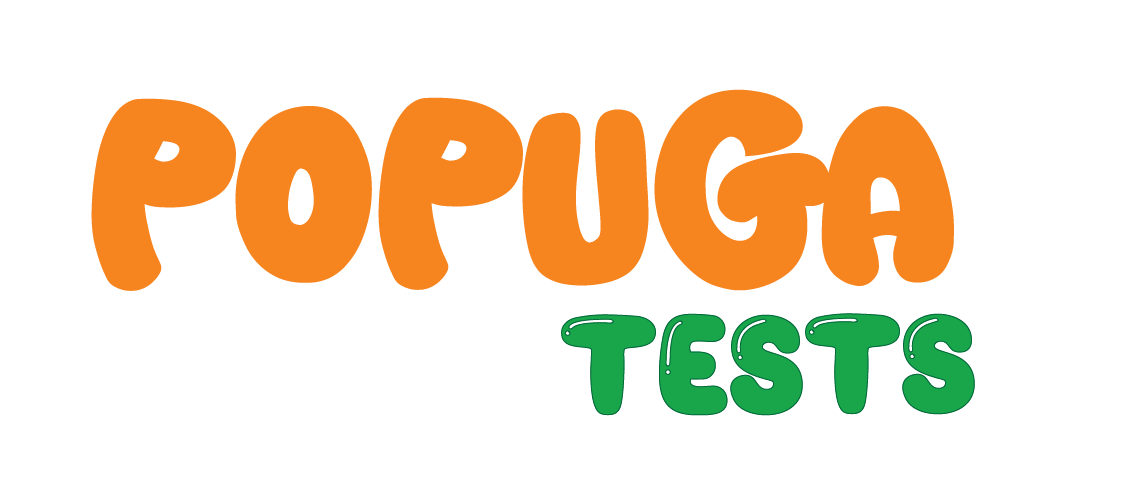
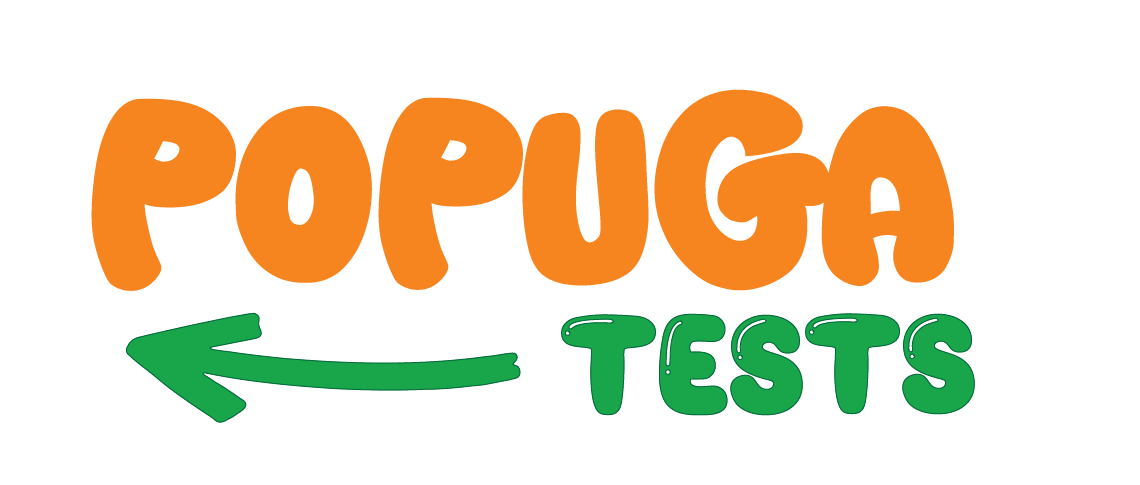
adds header images

Changed region(s): [[0.0921, 0.6495, 0.4605, 0.866]]

diff --git a/cards.html b/cards.html
@@ -8,8 +8,8 @@
 </head>
 <body>
   <div class="header-container">
-    <a href="cards.html">
-      <img src="img/header_synonyms.png" alt="Synonyms Logo" class="header-image" />
+    <a href="index.html">
+      <img src="img/header_cards.png" alt="Synonyms Logo" class="header-image" />
     </a>
     <div class="score-box">
       <div class="score-line">⭐ Score: <span id="currentScore">0/5</span></div>

diff --git a/cards.css b/cards.css
@@ -29,7 +29,7 @@ body {
 }
 .score-box .score-line {
   margin: 0;
-  font-size: 1.2rem;
+  font-size: 1.1rem;
   color: #333;
 }
 
